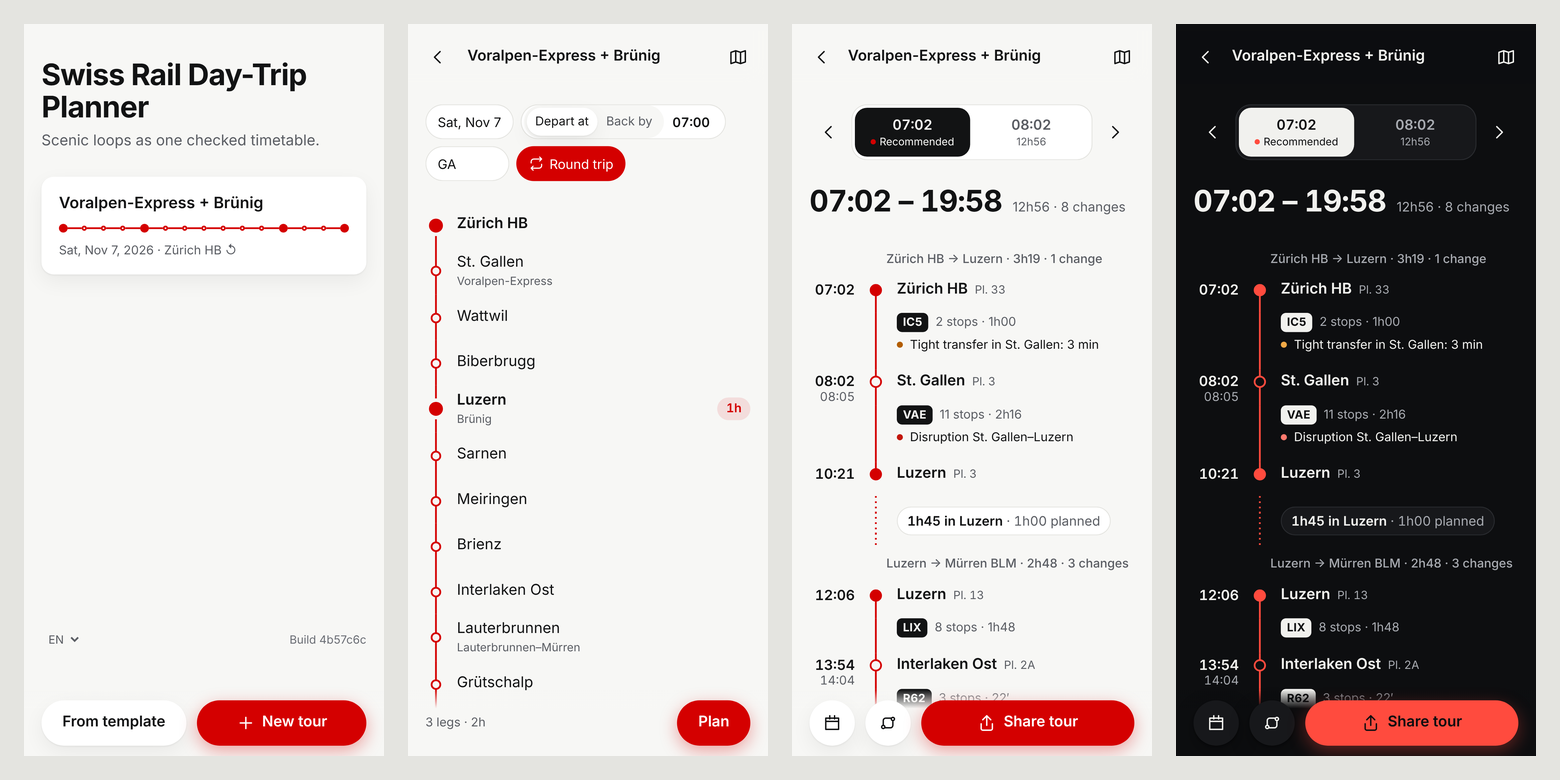
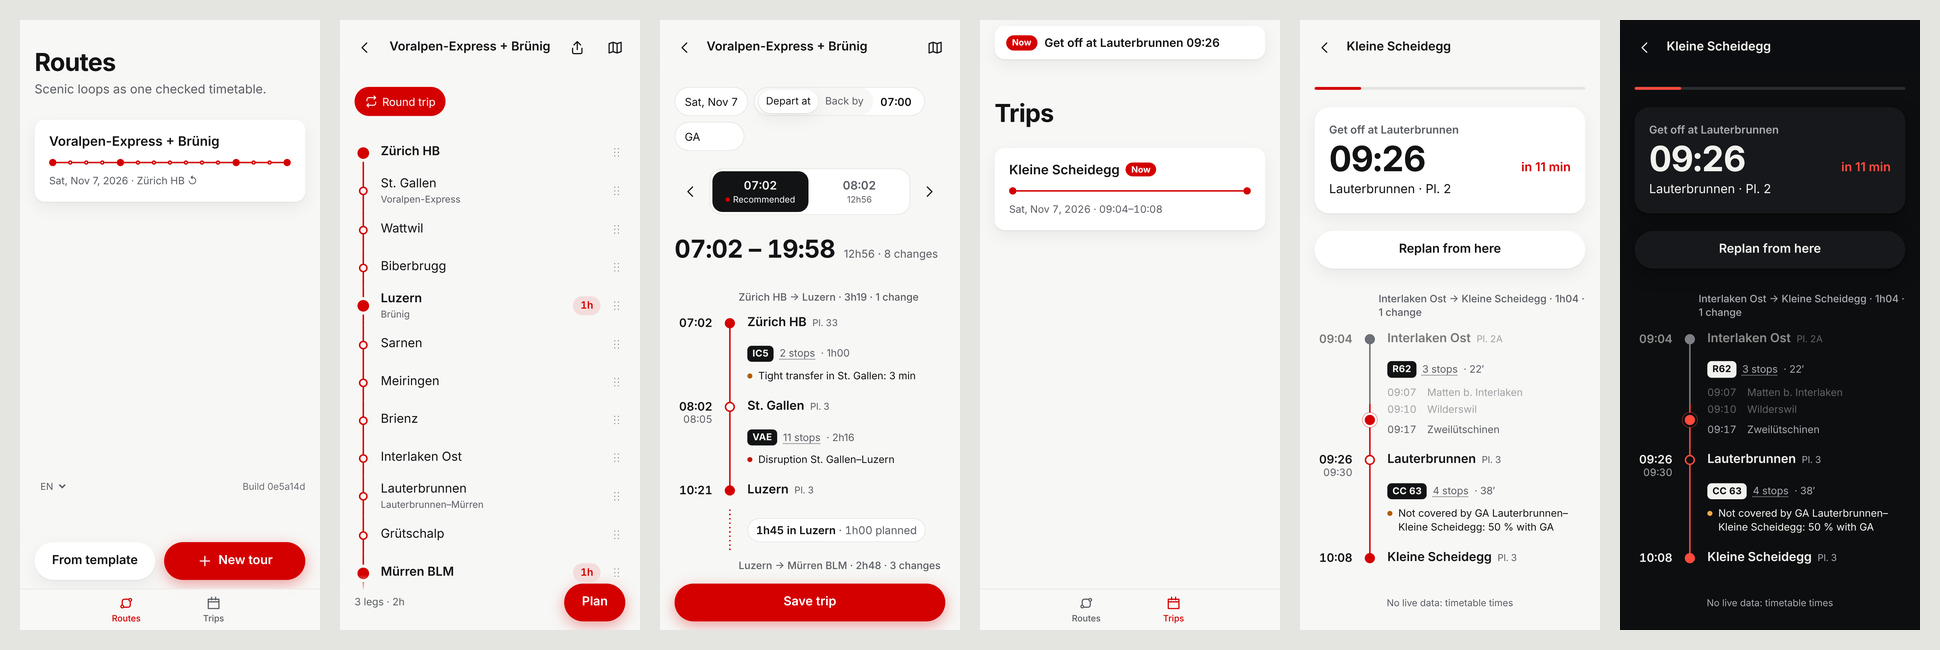
Share trips as their exact timetable; docs for Routes · Trips · Now
#/j/ links carry the trip without tracks or history (deflated); the
recipient sees and saves it without replanning. Routes share #/t/ from
the builder. SPEC §3a, DESIGN, README, AGENTS updated; screenshots.

Claude-Session: https://claude.ai/code/session_011PbMC19a8cw37gZ2XMRv6c

diff --git a/src/core/export/tripShare.ts b/src/core/export/tripShare.ts
@@ -1,0 +1,58 @@
+// Share a trip as its exact timetable (`#/j/<data>`): the trip without track geometry, deflated,
+// base64url. Opening it never replans (decision 2026-11-01: an exact snapshot).
+import type { Trip } from '../trip';
+
+const PREFIX = '#/j/';
+
+const toB64Url = (bytes: Uint8Array) => {
+  let s = '';
+  for (let i = 0; i < bytes.length; i += 0x8000)
+    s += String.fromCharCode(...bytes.subarray(i, i + 0x8000));
+  return btoa(s).replaceAll('+', '-').replaceAll('/', '_').replace(/=+$/, '');
+};
+const fromB64Url = (s: string) =>
+  Uint8Array.from(atob(s.replaceAll('-', '+').replaceAll('_', '/')), (c) => c.charCodeAt(0));
+
+async function pipe(
+  bytes: Uint8Array<ArrayBuffer>,
+  stream: CompressionStream | DecompressionStream,
+) {
+  const out = new Response(new Blob([bytes]).stream().pipeThrough(stream));
+  return new Uint8Array(await out.arrayBuffer());
+}
+
+/** The trip as shared: no id, no history, no tracks (the map draws straight lines instead). */
+function slim(t: Trip) {
+  const { id: _id, previous: _p, routeId: _r, ...rest } = t;
+  return {
+    ...rest,
+    chain: {
+      ...rest.chain,
+      connections: rest.chain.connections.map((c) => ({
+        ...c,
+        sections: c.sections.map(({ geometry: _g, ...s }) => s),
+      })),
+    },
+  };
+}
+
+export async function encodeTrip(t: Trip): Promise<string> {
+  const json = new TextEncoder().encode(JSON.stringify(slim(t)));
+  return PREFIX + toB64Url(await pipe(json, new CompressionStream('deflate-raw')));
+}
+
+export async function decodeTrip(hash: string, id: string): Promise<Trip | null> {
+  if (!hash.startsWith(PREFIX)) return null;
+  try {
+    const bytes = await pipe(
+      fromB64Url(hash.slice(PREFIX.length)),
+      new DecompressionStream('deflate-raw'),
+    );
+    const data = JSON.parse(new TextDecoder().decode(bytes));
+    if (data?.schema !== 1 || !data.chain?.connections?.length || !Array.isArray(data.legs))
+      return null;
+    return { ...data, id, version: 1 } as Trip;
+  } catch {
+    return null;
+  }
+}

diff --git a/src/ui/SharedTrip.tsx b/src/ui/SharedTrip.tsx
@@ -1,0 +1,64 @@
+import { useEffect, useState } from 'react';
+import { decodeTrip } from '../core/export/tripShare';
+import type { Trip } from '../core/trip';
+import { usePrefs, useT } from '../store';
+import { useTrips } from '../trips';
+import { ChainView } from './ChainView';
+import { hhmm, longDate } from './format';
+import { go } from './useHash';
+
+/** `#/j/<data>`: a trip someone shared, as they planned it. Saving copies it to this device. */
+export function SharedTrip({ hash }: { hash: string }) {
+  const t = useT();
+  const lang = usePrefs((s) => s.lang);
+  const add = useTrips((s) => s.add);
+  const [trip, setTrip] = useState<Trip | null | undefined>(undefined);
+
+  useEffect(() => {
+    let gone = false;
+    decodeTrip(`#${hash}`, crypto.randomUUID()).then((x) => !gone && setTrip(x));
+    return () => {
+      gone = true;
+    };
+  }, [hash]);
+
+  if (trip === undefined) return <main className="page" />;
+  if (!trip)
+    return (
+      <main className="page">
+        <p role="alert">{t('sharedBroken')}</p>
+        <button type="button" className="secondary" onClick={() => go('/')}>
+          {t('back')}
+        </button>
+      </main>
+    );
+  return (
+    <main className="page">
+      <header className="hero">
+        <h1>{trip.name || t('untitled')}</h1>
+        <p>{t('sharedTrip')}</p>
+      </header>
+      <div className="summary">
+        <span className="big">
+          {hhmm(trip.chain.dep)} – {hhmm(trip.chain.arr)}
+        </span>
+        <span className="muted">{longDate(trip.route.date, lang)}</span>
+      </div>
+      <ChainView chain={trip.chain} dwell={trip.legs.map((l) => l.to.dwellMin)} />
+      <div className="dock">
+        <div className="dock-inner">
+          <button
+            type="button"
+            className="primary wide"
+            onClick={() => {
+              add(trip);
+              go(`/trip/${trip.id}`);
+            }}
+          >
+            {t('saveToTrips')}
+          </button>
+        </div>
+      </div>
+    </main>
+  );
+}

diff --git a/tests/tripShare.test.ts b/tests/tripShare.test.ts
@@ -1,0 +1,55 @@
+import { describe, expect, it } from 'vitest';
+import { decodeTrip, encodeTrip } from '../src/core/export/tripShare';
+import { plan } from '../src/core/planner/plan';
+import { newTrip, revise } from '../src/core/trip';
+import { ojpFor } from './acceptance/ojp';
+import { acceptanceTours } from './acceptance/tours';
+import { FIXTURE_DATE } from './acceptance/ojp';
+import { ga, index, segments, templates } from './helpers/timetable';
+
+describe('trip share link', async () => {
+  const tour = acceptanceTours(FIXTURE_DATE).T3!;
+  const r = await plan(tour, {
+    ...ojpFor('T3'),
+    templates,
+    segments,
+    ga,
+    stop: (x) => index.byRef(x),
+  });
+  const trip = newTrip(
+    'mine',
+    { ...tour, name: 'Voralpen + Brünig' },
+    r.legs!,
+    r.recommended!,
+    new Date(0),
+  );
+
+  it('round-trips the exact timetable without tracks, history or id', async () => {
+    const withHistory = revise(
+      trip,
+      { route: trip.route, legs: trip.legs, chain: trip.chain },
+      new Date(1),
+    );
+    const hash = await encodeTrip(withHistory);
+    expect(hash).toMatch(/^#\/j\/[A-Za-z0-9_-]+$/);
+    const back = (await decodeTrip(hash, 'theirs'))!;
+    expect(back.id).toBe('theirs');
+    expect(back.previous).toBeUndefined();
+    expect(back.routeId).toBeUndefined();
+    expect(back.name).toBe('Voralpen + Brünig');
+    expect(back.chain.dep).toBe(trip.chain.dep);
+    expect(back.chain.connections.map((c) => c.sections.map((s) => s.journey))).toEqual(
+      trip.chain.connections.map((c) => c.sections.map((s) => s.journey)),
+    );
+    expect(back.chain.connections.flatMap((c) => c.sections).every((s) => !s.geometry)).toBe(true);
+  });
+
+  it('fits a link: a 3-leg day trip stays under 8000 characters', async () => {
+    expect((await encodeTrip(trip)).length).toBeLessThan(8000);
+  });
+
+  it('rejects broken links', async () => {
+    expect(await decodeTrip('#/j/AAAA', 'x')).toBeNull();
+    expect(await decodeTrip('#/t/abc', 'x')).toBeNull();
+  });
+});

diff --git a/e2e/share.spec.ts b/e2e/share.spec.ts
@@ -1,0 +1,30 @@
+import { encodeTrip } from '../src/core/export/tripShare';
+import { plan } from '../src/core/planner/plan';
+import { newTrip } from '../src/core/trip';
+import { FIXTURE_DATE, ojpFor } from '../tests/acceptance/ojp';
+import { acceptanceTours } from '../tests/acceptance/tours';
+import { ga, index, segments, templates } from '../tests/helpers/timetable';
+import { expect, test } from './fixtures';
+
+test('a shared trip opens as planned, without replanning, and saves to Trips', async ({ page }) => {
+  const tour = { ...acceptanceTours(FIXTURE_DATE).T5!, name: 'Shared T5' };
+  const r = await plan(tour, {
+    ...ojpFor('T5'),
+    templates,
+    segments,
+    ga,
+    stop: (x) => index.byRef(x),
+  });
+  const hash = await encodeTrip(newTrip('theirs', tour, r.legs!, r.recommended!, new Date(0)));
+
+  let asked = 0;
+  page.on('request', (q) => q.url().startsWith('https://ojp.invalid/') && asked++);
+  await page.goto(`./${hash}`);
+  await expect(page.getByRole('heading', { level: 1 })).toHaveText('Shared T5');
+  await expect(page.locator('.summary .big')).toContainText('09:04');
+  await page.getByRole('button', { name: 'Save to my trips' }).click();
+  await expect(page).toHaveURL(/#\/trip\//);
+  await page.getByRole('button', { name: 'Back', exact: true }).click();
+  await expect(page.getByRole('link', { name: /Shared T5/ })).toBeVisible();
+  expect(asked, 'no planning request for a shared trip').toBe(0);
+});

diff --git a/e2e/live.spec.ts b/e2e/live.spec.ts
@@ -8,7 +8,7 @@ import { expect, test } from './fixtures';
 test('a trip under way: next step, progress, the marker on the line', async ({ page }) => {
   await page.clock.install({ time: new Date(`${FIXTURE_DATE}T07:50:00Z`) }); // 08:50 in Zürich
   await page.goto(`./${encodeTour({ ...acceptanceTours(FIXTURE_DATE).T5!, name: 'T5' })}`);
-  await page.getByRole('button', { name: 'Save to my tours' }).click();
+  await page.getByRole('button', { name: 'Save to my routes' }).click();
   await page.getByRole('button', { name: 'Plan' }).click();
   await page.getByRole('button', { name: 'Save trip' }).click();
   await page.getByRole('link', { name: 'Show live' }).click();
@@ -41,7 +41,7 @@ test('a trip under way: next step, progress, the marker on the line', async ({ p
 test('replan from here: a spontaneous stop, update the trip, undo', async ({ page }) => {
   await page.clock.install({ time: new Date(`${FIXTURE_DATE}T08:15:00Z`) }); // 09:15, on the R62
   await page.goto(`./${encodeTour({ ...acceptanceTours(FIXTURE_DATE).T5!, name: 'T5' })}`);
-  await page.getByRole('button', { name: 'Save to my tours' }).click();
+  await page.getByRole('button', { name: 'Save to my routes' }).click();
   await page.getByRole('button', { name: 'Plan' }).click();
   await page.getByRole('button', { name: 'Save trip' }).click();
   await page.getByRole('link', { name: 'Show live' }).click();

diff --git a/src/ui/ExportSheet.tsx b/src/ui/ExportSheet.tsx
@@ -7,6 +7,7 @@ import type { PlannedChain } from '../core/planner/plan';
 import { useT } from '../store';
 import { hhmm } from './format';
 import { Icon } from './icons';
+import { shareLink } from './share';
 
 function download(name: string, type: string, text: string) {
   const url = URL.createObjectURL(new Blob([text], { type }));
@@ -86,21 +87,11 @@ export function ExportSheet({
             type="button"
             className="primary wide"
             onClick={async () => {
-              const url = `${location.origin}${location.pathname}${await shareHash()}`;
-              if (navigator.share) {
-                try {
-                  await navigator.share({ title: name, url });
-                  return;
-                } catch {
-                  // Cancelled or unavailable: fall back to copying.
-                }
-              }
-              await navigator.clipboard.writeText(url);
-              setCopied(true);
+              if ((await shareLink(await shareHash(), name)) === 'copied') setCopied(true);
             }}
           >
             <Icon name="share" />
-            {copied ? t('copied') : t('shareTour')}
+            {copied ? t('copied') : t('shareTrip')}
           </button>
         </div>
       </div>

diff --git a/e2e/screens.spec.ts b/e2e/screens.spec.ts
@@ -14,7 +14,7 @@ for (const scheme of ['light', 'dark'] as const) {
       page.screenshot({ path: `${dir}/${scheme}-${name}.png`, fullPage: full });
     const t3 = { ...acceptanceTours(FIXTURE_DATE).T3!, name: 'Voralpen-Express + Brünig' };
     await page.goto(`./${encodeTour(t3)}`);
-    await page.getByRole('button', { name: 'Save to my tours' }).click();
+    await page.getByRole('button', { name: 'Save to my routes' }).click();
     await page.waitForTimeout(300);
     await shot('2-builder');
     await shot('2-builder-full', true);
@@ -33,7 +33,7 @@ for (const scheme of ['light', 'dark'] as const) {
     await page.clock.install({ time: new Date(`${FIXTURE_DATE}T08:15:00Z`) }); // 09:15 Zürich
     const t5 = { ...acceptanceTours(FIXTURE_DATE).T5!, name: 'Kleine Scheidegg' };
     await page.goto(`./${encodeTour(t5)}`);
-    await page.getByRole('button', { name: 'Save to my tours' }).click();
+    await page.getByRole('button', { name: 'Save to my routes' }).click();
     await page.getByRole('button', { name: 'Plan' }).click();
     await page.getByRole('button', { name: 'Save trip' }).click();
     await page.getByRole('link', { name: 'Show live' }).click();

diff --git a/e2e/acceptance.spec.ts b/e2e/acceptance.spec.ts
@@ -9,7 +9,7 @@ const tours = acceptanceTours(FIXTURE_DATE);
 for (const [id, tour] of Object.entries(tours).filter(([k]) => k !== 'T5L')) {
   test(`${id} plans in the app`, async ({ page }) => {
     await page.goto(`./${encodeTour({ ...tour, name: id })}`);
-    await page.getByRole('button', { name: 'Save to my tours' }).click();
+    await page.getByRole('button', { name: 'Save to my routes' }).click();
     await page.getByRole('button', { name: 'Plan' }).click();
 
     // 2–3 options with different times as tabs, or one with a note.
@@ -46,7 +46,7 @@ for (const [id, tour] of Object.entries(tours).filter(([k]) => k !== 'T5L')) {
 
 test('Later moves the departure an hour and replans', async ({ page }) => {
   await page.goto(`./${encodeTour({ ...tours.T5!, name: 'T5' })}`);
-  await page.getByRole('button', { name: 'Save to my tours' }).click();
+  await page.getByRole('button', { name: 'Save to my routes' }).click();
   await page.getByRole('button', { name: 'Plan' }).click();
   const first = page.getByRole('tab').first();
   await expect(first).toBeVisible();

diff --git a/src/i18n/fr.ts b/src/i18n/fr.ts
@@ -73,7 +73,7 @@ export const fr = {
   openSbb: 'Ouvrir {from} → {to} sur sbb.ch',
   sharedTour: 'Quelqu’un a partagé ce circuit avec vous.',
   sharedBroken: 'Ce lien est invalide.',
-  importTour: 'Enregistrer dans mes circuits',
+  importTour: 'Ajouter à mes itinéraires',
   modeRack: 'crémaillère',
   modeFunicular: 'funiculaire',
   modeCableCar: 'téléphérique',
@@ -93,7 +93,6 @@ export const fr = {
   onlyOne: 'Une seule liaison convient à ce circuit à cette heure.',
   planned: '{min} prévu',
   tickets: 'Billets & horaire',
-  shareTour: 'Partager',
   stop1: '1 arrêt',
   drag: 'Déplacer {name} (glisser ou flèches)',
   routes: 'Itinéraires',
@@ -129,4 +128,8 @@ export const fr = {
   findConnections: 'Chercher des liaisons',
   updateTrip: 'Mettre à jour le voyage',
   replanHere: 'Replanifier d’ici',
+  sharedTrip: 'Quelqu’un a partagé ce voyage avec vous, tel que planifié.',
+  saveToTrips: 'Ajouter à mes voyages',
+  shareRoute: 'Partager l’itinéraire',
+  shareTrip: 'Partager le voyage',
 } satisfies Catalogue;

diff --git a/src/i18n/it.ts b/src/i18n/it.ts
@@ -74,7 +74,7 @@ export const it = {
   openSbb: 'Apri {from} → {to} su sbb.ch',
   sharedTour: 'Qualcuno ha condiviso questo giro con te.',
   sharedBroken: 'Questo link non è valido.',
-  importTour: 'Salva nei miei giri',
+  importTour: 'Salva nei miei percorsi',
   modeRack: 'cremagliera',
   modeFunicular: 'funicolare',
   modeCableCar: 'funivia',
@@ -94,7 +94,6 @@ export const it = {
   onlyOne: 'A quest’ora solo un collegamento va bene per questo giro.',
   planned: '{min} previsti',
   tickets: 'Biglietti & orario',
-  shareTour: 'Condividi',
   stop1: '1 fermata',
   drag: 'Sposta {name} (trascina o frecce)',
   routes: 'Percorsi',
@@ -131,4 +130,8 @@ export const it = {
   findConnections: 'Cerca collegamenti',
   updateTrip: 'Aggiorna viaggio',
   replanHere: 'Ripianifica da qui',
+  sharedTrip: 'Qualcuno ha condiviso questo viaggio con te, così come è pianificato.',
+  saveToTrips: 'Salva nei miei viaggi',
+  shareRoute: 'Condividi percorso',
+  shareTrip: 'Condividi viaggio',
 } satisfies Catalogue;

diff --git a/src/i18n/de.ts b/src/i18n/de.ts
@@ -73,7 +73,7 @@ export const de = {
   openSbb: '{from} → {to} auf sbb.ch öffnen',
   sharedTour: 'Jemand hat diese Tour mit dir geteilt.',
   sharedBroken: 'Dieser Link ist ungültig.',
-  importTour: 'In meine Touren speichern',
+  importTour: 'Zu meinen Routen',
   modeRack: 'Zahnradbahn',
   modeFunicular: 'Standseilbahn',
   modeCableCar: 'Luftseilbahn',
@@ -93,7 +93,6 @@ export const de = {
   onlyOne: 'Zu dieser Zeit passt nur eine Verbindung für diese Tour.',
   planned: '{min} geplant',
   tickets: 'Billette & Fahrplan',
-  shareTour: 'Tour teilen',
   stop1: '1 Halt',
   drag: '{name} verschieben (ziehen oder Pfeiltasten)',
   routes: 'Routen',
@@ -130,4 +129,8 @@ export const de = {
   findConnections: 'Verbindungen suchen',
   updateTrip: 'Reise aktualisieren',
   replanHere: 'Ab hier neu planen',
+  sharedTrip: 'Jemand hat diese Reise mit dir geteilt, so wie sie geplant ist.',
+  saveToTrips: 'Zu meinen Reisen',
+  shareRoute: 'Route teilen',
+  shareTrip: 'Reise teilen',
 } satisfies Catalogue;

diff --git a/src/ui/Builder.tsx b/src/ui/Builder.tsx
@@ -21,6 +21,8 @@ import { dwellLabel, StopRow } from './StopRow';
 import { directionFrom, TEMPLATES, TemplatePicker } from './TemplatePicker';
 import { useDragList } from './useDragList';
 import { go } from './useHash';
+import { shareLink } from './share';
+import { encodeTour } from '../core/export/share';
 
 export function Builder({ id, showTemplates }: { id: string; showTemplates?: boolean }) {
   const t = useT();
@@ -79,6 +81,15 @@ export function Builder({ id, showTemplates }: { id: string; showTemplates?: boo
           value={tour.name}
           onChange={(e) => edit((x) => ({ ...x, name: e.target.value }))}
         />
+        <button
+          type="button"
+          className="icon"
+          aria-label={t('shareRoute')}
+          disabled={wps.length < 2}
+          onClick={() => void shareLink(encodeTour(tour), tour.name || t('untitled'))}
+        >
+          <Icon name="share" />
+        </button>
         <button
           type="button"
           className="icon"
